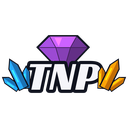
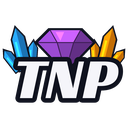
TNP emoji: the minerals behind the letters again, the letters larger

diff --git a/docs/design/hub-and-lobby.md b/docs/design/hub-and-lobby.md
@@ -89,9 +89,10 @@ does bar naming specific opponents up front). Two pieces:
     heading and the button, is `tnp/images/emoji/tnp.png` uploaded to
     fool-bot's application as `tnp` (`TNP_HUB_EMOJI_NAME`) -- the
     letters TNP, in Racing Sans One, with the planet's three resources
-    in the map's colours (`tnp/render.py`): a cut purple gem rising
-    behind the letters, blue mineral shards in front of the T's corner
-    and orange ones in front of the P's;
+    in the map's colours (`tnp/render.py`): blue mineral shards,
+    a cut purple gem and orange mineral shards rising from behind the T,
+    the N and the P -- behind, so the picture is only as wide as the
+    letters and they are drawn as large as an emoji allows;
     the hub goes without it until it is uploaded, as with Codex's. A hub posted before the button gains it
     at the next `/d12ball setup_hub`, which edits the message.
   `data/d12ball_hubs.json` is untracked runtime state like the saved games, and
